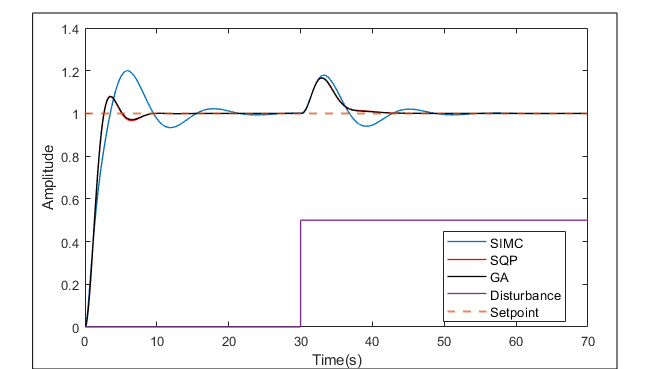
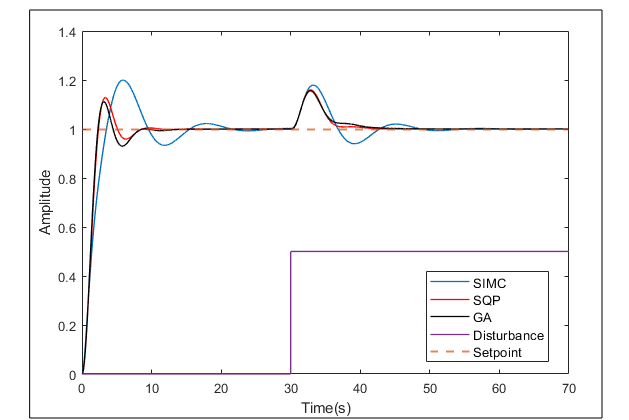
att

Changed region(s): [[0.0302, 0.0, 0.9666, 1.0]]

diff --git a/Otimizacao de controladores PID/genetic_algorithm.m b/Otimizacao de controladores PID/genetic_algorithm.m
@@ -1,15 +1,15 @@
 %% Projeto de controladores PID por meio de Genetic Algorithm (GA)
 
 s=tf('s'); 
-% G=1/(1+s)^3;                        % G1
-G=exp(-0.3*s)/((1+s)*(1+0.5*s));   % G2
+G=1/(1+s)^3;                        % G1
+% G=exp(-0.3*s)/((1+s)*(1+0.5*s));   % G2
 
 
 % Obtendo as aproximaçãoes de Half-rule
 T = 0;
-% taui = [1, 1, 1];     % G1
-taui = [1, 0.5, 0];   % G2
-theta0 = 0.3;
+taui = [1, 1, 1];     % G1
+% taui = [1, 0.5, 0];   % G2
+theta0 = 0;
 K = 1;
 tau1 = taui(1);
 tau2 = taui(2) + taui(3)/2;
@@ -37,8 +37,8 @@ Jvb=norm(feedback(pade(G)/s,Kpid2),inf)
 Jub=norm(feedback(Kpid2, pade(G)),inf)
 
 % Critérios de restrição
-MS_max=1.5;
-MT_max=1.01;
+MS_max=1.6;
+MT_max=1.1;
 %Jv_max=0.66;
 Ju_max=100;
 % Gm_Max = 3;
@@ -47,7 +47,7 @@ Ju_max=100;
 % x = [Kp2, Ki2, Kd2];
 
 % Otimização do controlador por meio do algoritmo genético
-lb = [0, 0, 0];
+lb = [2, 0.5, 0.1];
 ub = [30, 10, 10];
 options = optimoptions('ga', 'display', 'iter');
 x = ga(@(x) objfun(x,s,G),3,[],[],[],[],...

diff --git a/Otimizacao de controladores PID/comparativo.m b/Otimizacao de controladores PID/comparativo.m
@@ -43,7 +43,7 @@ Jub=norm(feedback(Kpid1, pade(G)),inf)
 
 % Critérios de restrição
 MS_max=1.7;
-MT_max=1.3;
+MT_max=1.05;
 %Jv_max=0.66;
 Ju_max=100;
 % Gm_Max = 3;
@@ -52,7 +52,7 @@ Ju_max=100;
 x1 = [Kp1, Ki1, Kd1];
 
 % Otimização dos parâmetros do controlador por meio da fmincon
-lb = [0, 0, 0];
+lb = [0, 0.5, 0];
 ub = [30, 10, 10];
 options = optimoptions('fmincon', 'display', 'iter');
 x2=fmincon(@(x1) objfun(x1,s,G),x1,[],[],[],[],...
@@ -70,7 +70,7 @@ MT_fmincon=norm(feedback(pade(G)*Kpid2,1),inf)
 [Gm_fmincon,Pm_fmincon] = margin(G*Kpid2)
 
 % Otimização do controlador por meio do algoritmo genético
-lb = [0, 0, 0];
+lb = [0, 0.5, 0];
 ub = [30, 10, 10];
 options = optimoptions('ga', 'display', 'iter');
 x3 = ga(@(x) objfun(x,s,G),3,[],[],[],[],...

diff --git a/Otimizacao de controladores PID/find_minimum_of_constrained.m b/Otimizacao de controladores PID/find_minimum_of_constrained.m
@@ -5,15 +5,15 @@ clear    % clears the previous work space
 close all    % closes the privous graphical objects(figures)
 
 s=tf('s'); 
-% G=1/(1+s)^3;                     % G1
-G=exp(-0.3*s)/((1+s)*(1+0.5*s));   % G2
+G=1/(1+s)^3;                     % G1
+% G=exp(-0.3*s)/((1+s)*(1+0.5*s));   % G2
 
 
 % Obtendo as aproximaçãoes de Half-rule
 T = 0;
-% taui = [1, 1, 1];   % G1
-taui = [1, 0.5, 0];   % G2
-theta0 = 0.3;
+taui = [1, 1, 1];   % G1
+% taui = [1, 0.5, 0];   % G2
+theta0 = 0;
 K = 1;
 tau1 = taui(1);
 tau2 = taui(2) + taui(3)/2;
@@ -47,7 +47,7 @@ Jub=norm(feedback(Kpid1, pade(G)),inf)
 
 % Critérios de restrição
 MS_max=1.5;
-MT_max=1.01;
+MT_max=1.1;
 Ju_max=100;
 % Gm_Max = 3;
 % Pm_Max = 45;
